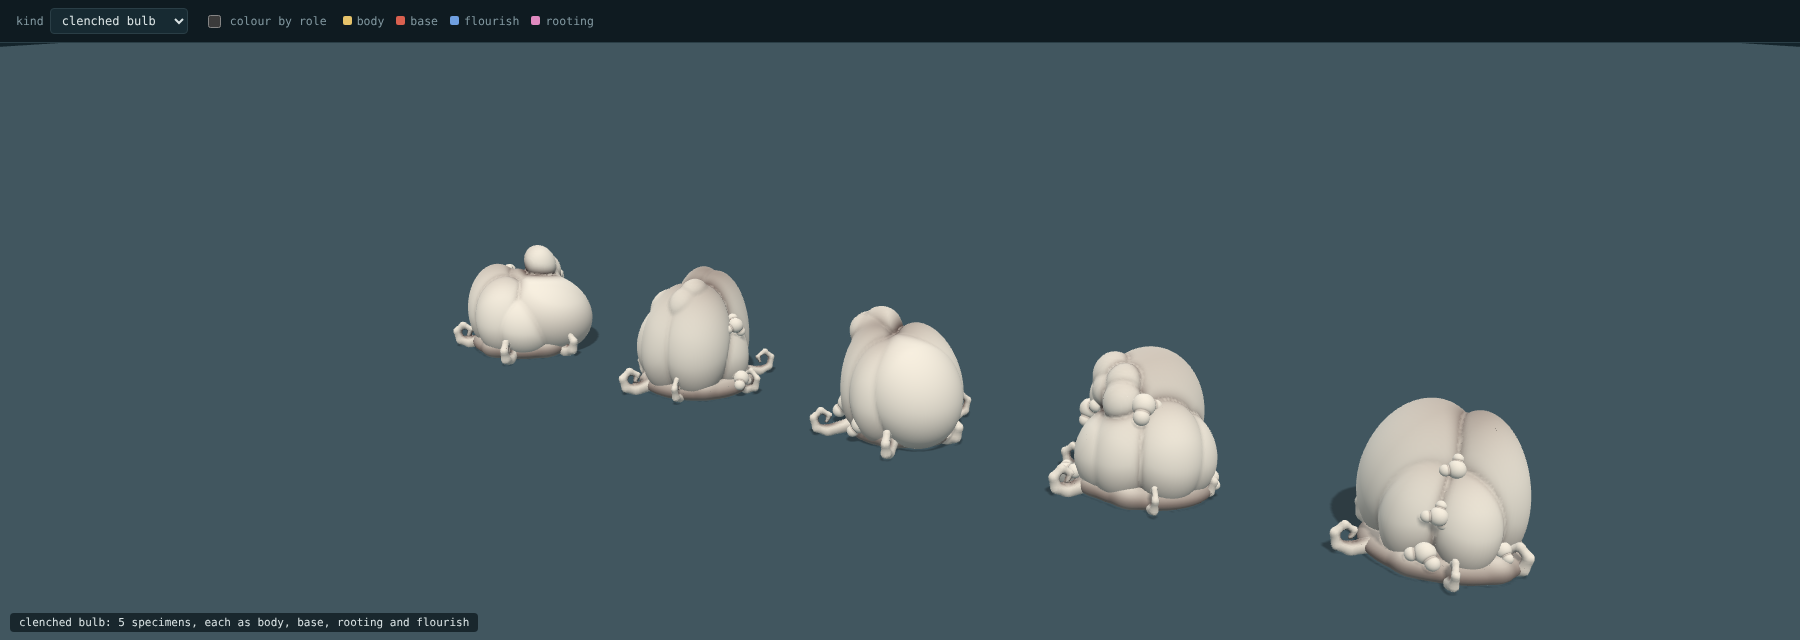
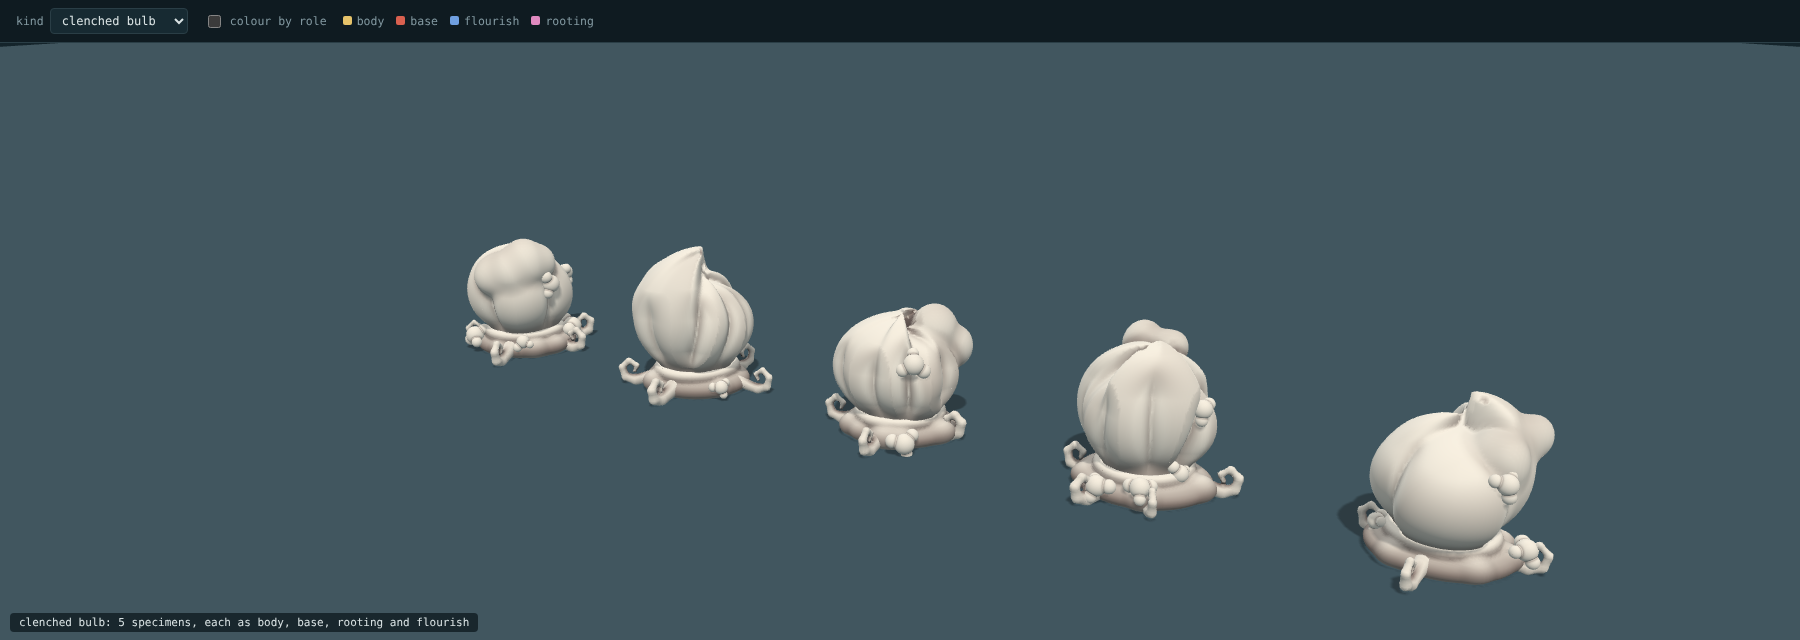
Clenched bulb: one skin with creases pressed in, not overlapped lumps
The seams were the hard line where separate eggs met and read as
discrete objects. The body is now a single skin: creases each have
their own depth, width, wander and length and fade out at their ends,
lobes swell out between them, and the buds swell out of the same skin.

Claude-Session: https://claude.ai/code/session_0192rgp75jGkttZXf7hEakip

Changed region(s): [[0.2489, 0.375, 0.56, 0.7188], [0.7156, 0.5938, 0.8711, 0.9375], [0.56, 0.5, 0.7156, 0.8125]]

diff --git a/assets/kinds.js b/assets/kinds.js
@@ -107,18 +107,24 @@
           d = smin(d, cone(tx, y, tz, 0.05, ty, 0, 0.15, ty + tuft, 0, 0.085, 0.07), 0.04); return smin(d, egg(tx, y, tz, 0.16, ty + tuft + 0.04, 0, 0.11, 0.085, 0.11), 0.02); } };
     } },
     { name: 'clenched bulb', flourish: 'warts', specimens: 5, make(r) {
-      const u = (a, b) => lerp(a, b, r()), n = 5 + Math.floor(r() * 3), ph = u(0, TAU), tall = u(0.85, 1.15), lean = u(-0.1, 0.1), big = Math.floor(r() * n), side = u(0, TAU), nb = 4 + Math.floor(r() * 4);
-      const Lb = [], Bd = [];
-      for (let i = 0; i < n; i++) Lb.push([(TAU * i) / n + ph + u(-0.22, 0.22), u(0.82, 1.12) * (i === big ? 1.4 : 1), u(0.68, 1.12)]);
-      for (let i = 0; i < nb; i++) Bd.push([side + u(-1.1, 1.1), u(0.06, 0.3), u(0.1, 0.18), u(-0.16, 0.08)]);
-      return { top: 1.75, base: { cx: 0, R: u(0.5, 0.6), seat: 0.36, lumps: lumps(r, 5) }, roots: { cx: 0, curl: true, roots: roots(r, 4 + Math.floor(r() * 3), 0.5, 0.85, 0.08) },
-        body: (x0, y, z) => { const x = x0 - lean * y * y;
-          // swollen lobes round one axis, leaning in toward the top and pressed together so creases form between them
-          let d = smin(egg(x, y, z, 0, 0.46 * tall, 0, 0.24, 0.42 * tall, 0.24), egg(x, y, z, 0, 0.16, 0, 0.36, 0.16, 0.36), 0.08);
-          for (const [a, sz, hf] of Lb) { const c = Math.cos(a), sn = Math.sin(a), tilt = (y - 0.2) * 0.14, cx = (0.3 - tilt) * c, cz = (0.3 - tilt) * sn;
-            d = smin(d, egg(x, y, z, cx, 0.5 * tall * hf, cz, 0.3 * sz, 0.5 * tall * hf * (0.85 + 0.15 * sz), 0.3 * sz), 0.012); }
-          // a clutch of buds breaking out high on one side
-          for (const [a, rr, sz, up] of Bd) d = smin(d, egg(x, y, z, rr * Math.cos(a) + 0.12 * Math.cos(side), 0.86 * tall + up, rr * Math.sin(a) + 0.12 * Math.sin(side), sz, sz * 1.15, sz), 0.015);
+      const u = (a, b) => lerp(a, b, r()), n = 5 + Math.floor(r() * 3), ry = u(0.42, 0.56), lean = u(-0.1, 0.1), big = Math.floor(r() * n), side = u(0, TAU), nb = 4 + Math.floor(r() * 4), wrap = (a) => a - TAU * Math.round(a / TAU);
+      // one skin, not separate lumps. Creases are pressed into it: each has its own depth, width, wander and length.
+      const gaps = []; let tot = 0; for (let i = 0; i < n; i++) { const g = u(0.7, 1.3) * (i === big ? 1.8 : 1); gaps.push(g); tot += g; }
+      const seams = [], lobes = []; let a0 = u(0, TAU);
+      for (let i = 0; i < n; i++) { const g = (gaps[i] / tot) * TAU; seams.push({ a: a0, wig: u(0.05, 0.16), k: u(2, 4.5), ph: u(0, TAU), y0: u(0.1, 0.28), y1: u(0.82, 1.02), depth: u(0.2, 0.34), w: u(0.085, 0.14) });
+        lobes.push({ c: a0 + g / 2, half: g / 2, hf: u(0.72, 1.14) * (i === big ? 1.1 : 1), b: u(0.08, 0.2) + (i === big ? 0.1 : 0) }); a0 += g; }
+      const Bd = []; for (let i = 0; i < nb; i++) Bd.push([side + u(-1.1, 1.1), u(0.2, 0.42), u(0.13, 0.22), u(-0.22, 0.04)]);
+      return { top: 1.8, base: { cx: 0, R: u(0.5, 0.6), seat: 0.36, lumps: lumps(r, 5) }, roots: { cx: 0, curl: true, roots: roots(r, 4 + Math.floor(r() * 3), 0.5, 0.85, 0.08) },
+        body: (x0, y, z) => { const x = x0 - lean * y * y, f = Math.atan2(z, x), rho = Math.max(H(x, z), 0.05), top = 0.14 + 2 * ry;
+          let G = 0;
+          for (const S of seams) { const sd = Math.abs(wrap(f - S.a - S.wig * Math.sin(S.k * y + S.ph))) * rho, env = Math.pow(sstep(S.y0, S.y0 + 0.22, y) * sstep(S.y1 * top, S.y1 * top - 0.3, y), 0.8); G = Math.max(G, env * S.depth * Math.exp(-Math.sqrt(sd * sd + 2e-4) / S.w)); }
+          let hw = 0, hf = 0, bb = 0;
+          for (const Lb of lobes) { const q = wrap(f - Lb.c) / Lb.half, w = Math.exp(-2.2 * q * q); hw += w; hf += w * Lb.hf; bb += w * Lb.b; }
+          hf /= hw; bb /= hw;
+          const k = 1 + bb - G;
+          let d = smin(egg(x / k, y, z / k, 0, 0.14 + ry * hf, 0, 0.5, ry * hf, 0.5) * k, egg(x, y, z, 0, 0.14, 0, 0.34, 0.15, 0.34), 0.1);
+          // buds swelling out of the same skin, high on one side
+          for (const [a, rr, sz, up] of Bd) d = smin(d, egg(x, y, z, rr * Math.cos(a) + 0.12 * Math.cos(side), top * 0.84 + up, rr * Math.sin(a) + 0.12 * Math.sin(side), sz, sz * 1.15, sz), 0.06);
           return d; } };
     } },
   ];
